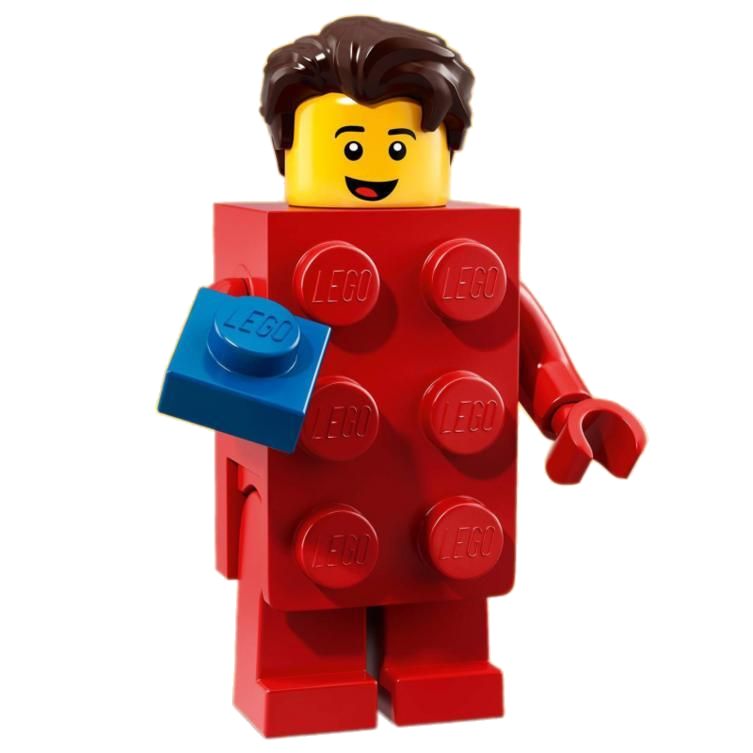
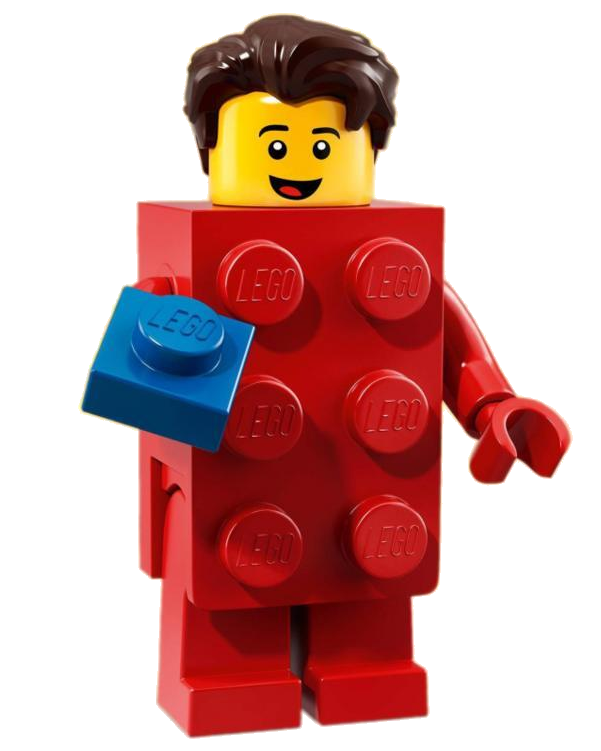
fix images (#28)

diff --git a/js/javascript.js b/js/javascript.js
@@ -3,54 +3,51 @@ let inline1 = document.getElementById("inline1");
 
 inline1.addEventListener("click", function () {
   let minifigImage = document.getElementById("minifigImage");
-  minifigImage.src = "./images/minifigs/brick_suit.jpg";
+  minifigImage.src = "./images/minifigs/brick_suit.png";
   let setImage1 = document.getElementById("setImage1");
   let setImage2 = document.getElementById("setImage2");
   setImage1.src = randomizeArray(setlocations);
   setImage2.src = randomizeArray(setlocations);
-
 });
 
 let inline2 = document.getElementById("inline2");
 
 inline2.addEventListener("click", function () {
   let minifigImage = document.getElementById("minifigImage");
-  minifigImage.src = "./images/minifigs/burninate.jpg";
+  minifigImage.src = "./images/minifigs/dragon_suit.png";
   let setImage1 = document.getElementById("setImage1");
   let setImage2 = document.getElementById("setImage2");
   setImage1.src = randomizeArray(setlocations);
   setImage2.src = randomizeArray(setlocations);
-
 });
 
 let inline3 = document.getElementById("inline3");
 
 inline3.addEventListener("click", function () {
   let minifigImage = document.getElementById("minifigImage");
-  minifigImage.src = "./images/minifigs/female_programmer.jpg";
-  let setimage1= document.getElementById("setimage1")
-  setImage1.src=randomizeArray(setlocations);
-  setimage2.src=randomizeArray(setlocations);
+  minifigImage.src = "./images/minifigs/female_programmer.png";
+  let setimage1 = document.getElementById("setimage1");
+  setImage1.src = randomizeArray(setlocations);
+  setimage2.src = randomizeArray(setlocations);
 });
 
 let inline4 = document.getElementById("inline4");
 
 inline4.addEventListener("click", function () {
   let minifigImage = document.getElementById("minifigImage");
-  minifigImage.src = "./images/minifigs/lift_bro.jpg";
+  minifigImage.src = "./images/minifigs/lift_bro.png";
   let setImage1 = document.getElementById("setImage1");
   let setImage2 = document.getElementById("setImage2");
   setImage1.src = randomizeArray(setlocations);
   setImage2.src = randomizeArray(setlocations);
-
 });
 
 // place text in html elements
 const minifiglocations = [
-  "./images/minifigs/brick_suit.jpg",
-  "./images/minifigs/burninate.jpg",
-  "./images/minifigs/female_programmer.jpg",
-  "./images/minifigs/lift_bro.jpg",
+  "./images/minifigs/brick_suit.png",
+  "./images/minifigs/dragon_suit.png",
+  "./images/minifigs/female_programmer.png",
+  "./images/minifigs/lift_bro.png",
 ];
 
 const setlocations = [
@@ -125,6 +122,6 @@ sortSetButton.addEventListener("click", function () {
       let setImage2 = document.getElementById("setImage2");
       setImage1.src = randomizeArray(setlocations);
       setImage2.src = randomizeArray(setlocations);
-      }
+    }
   }
 });
